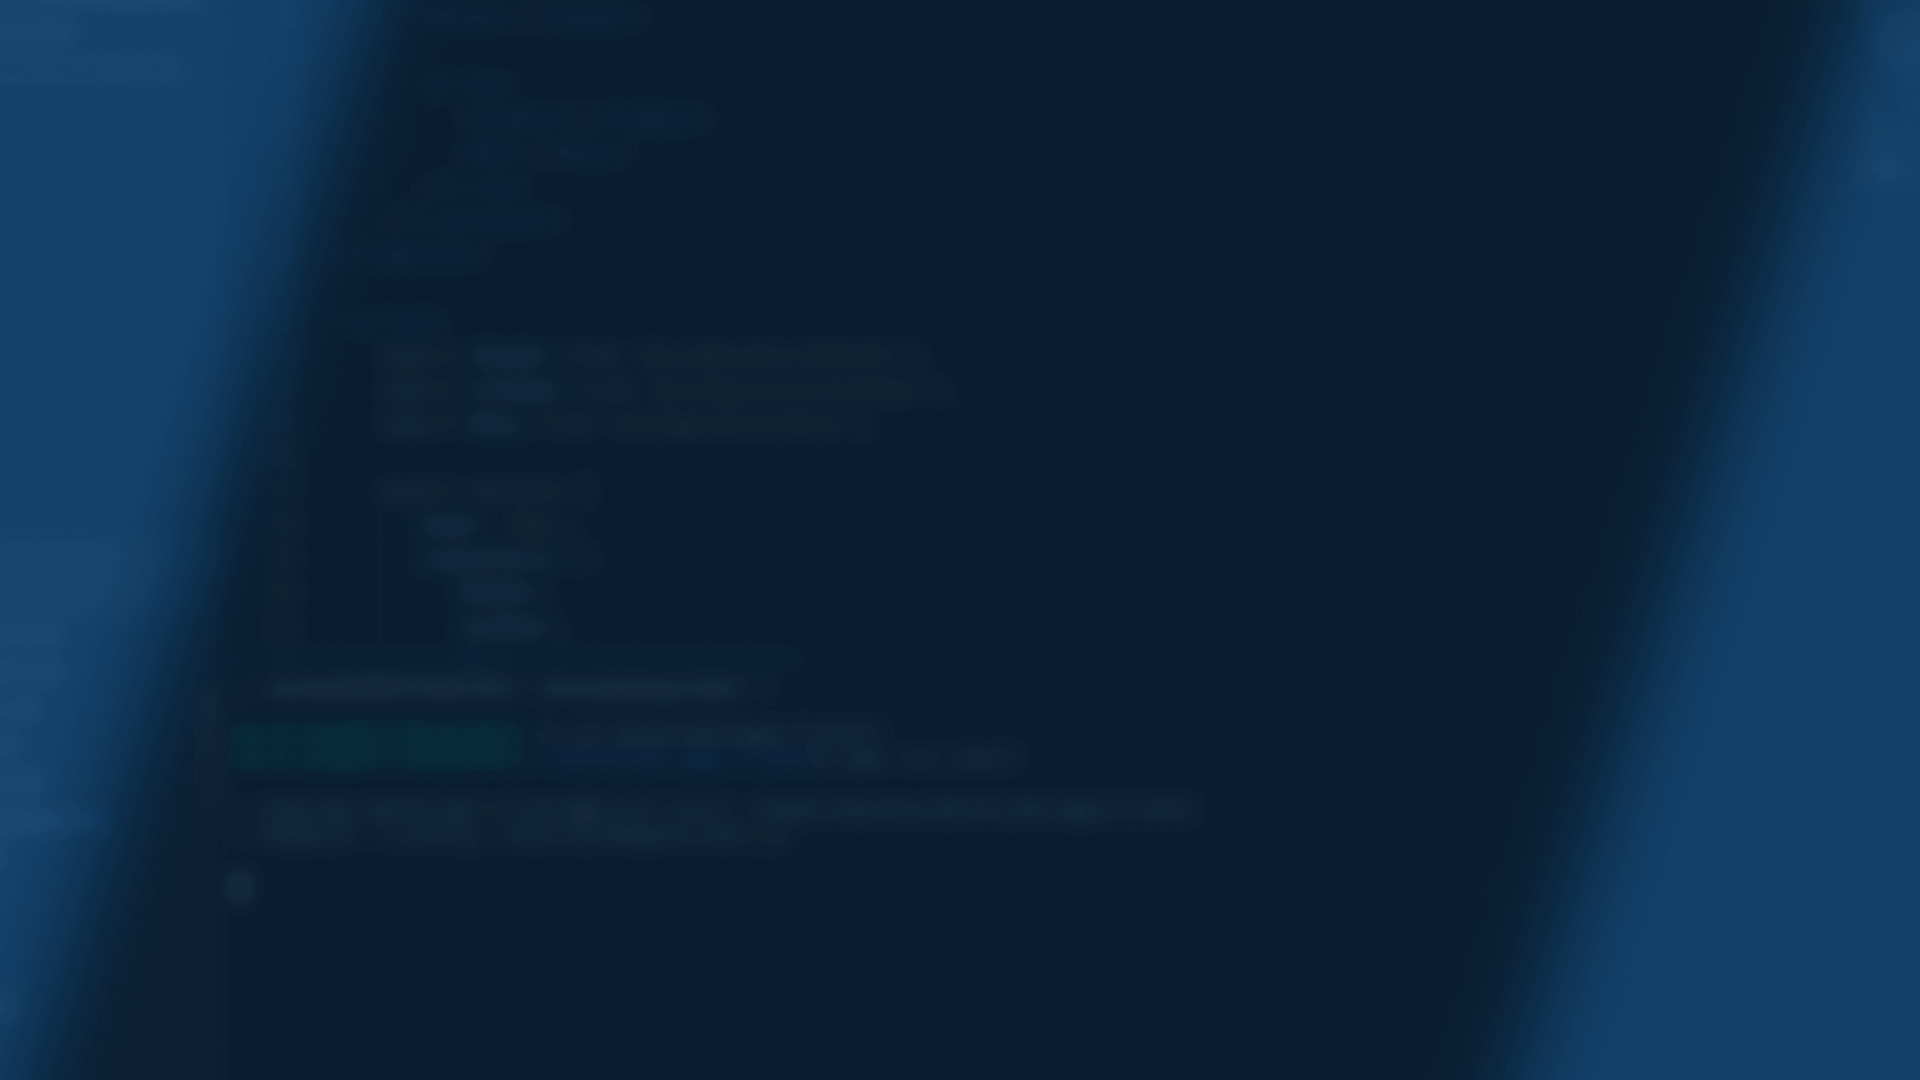
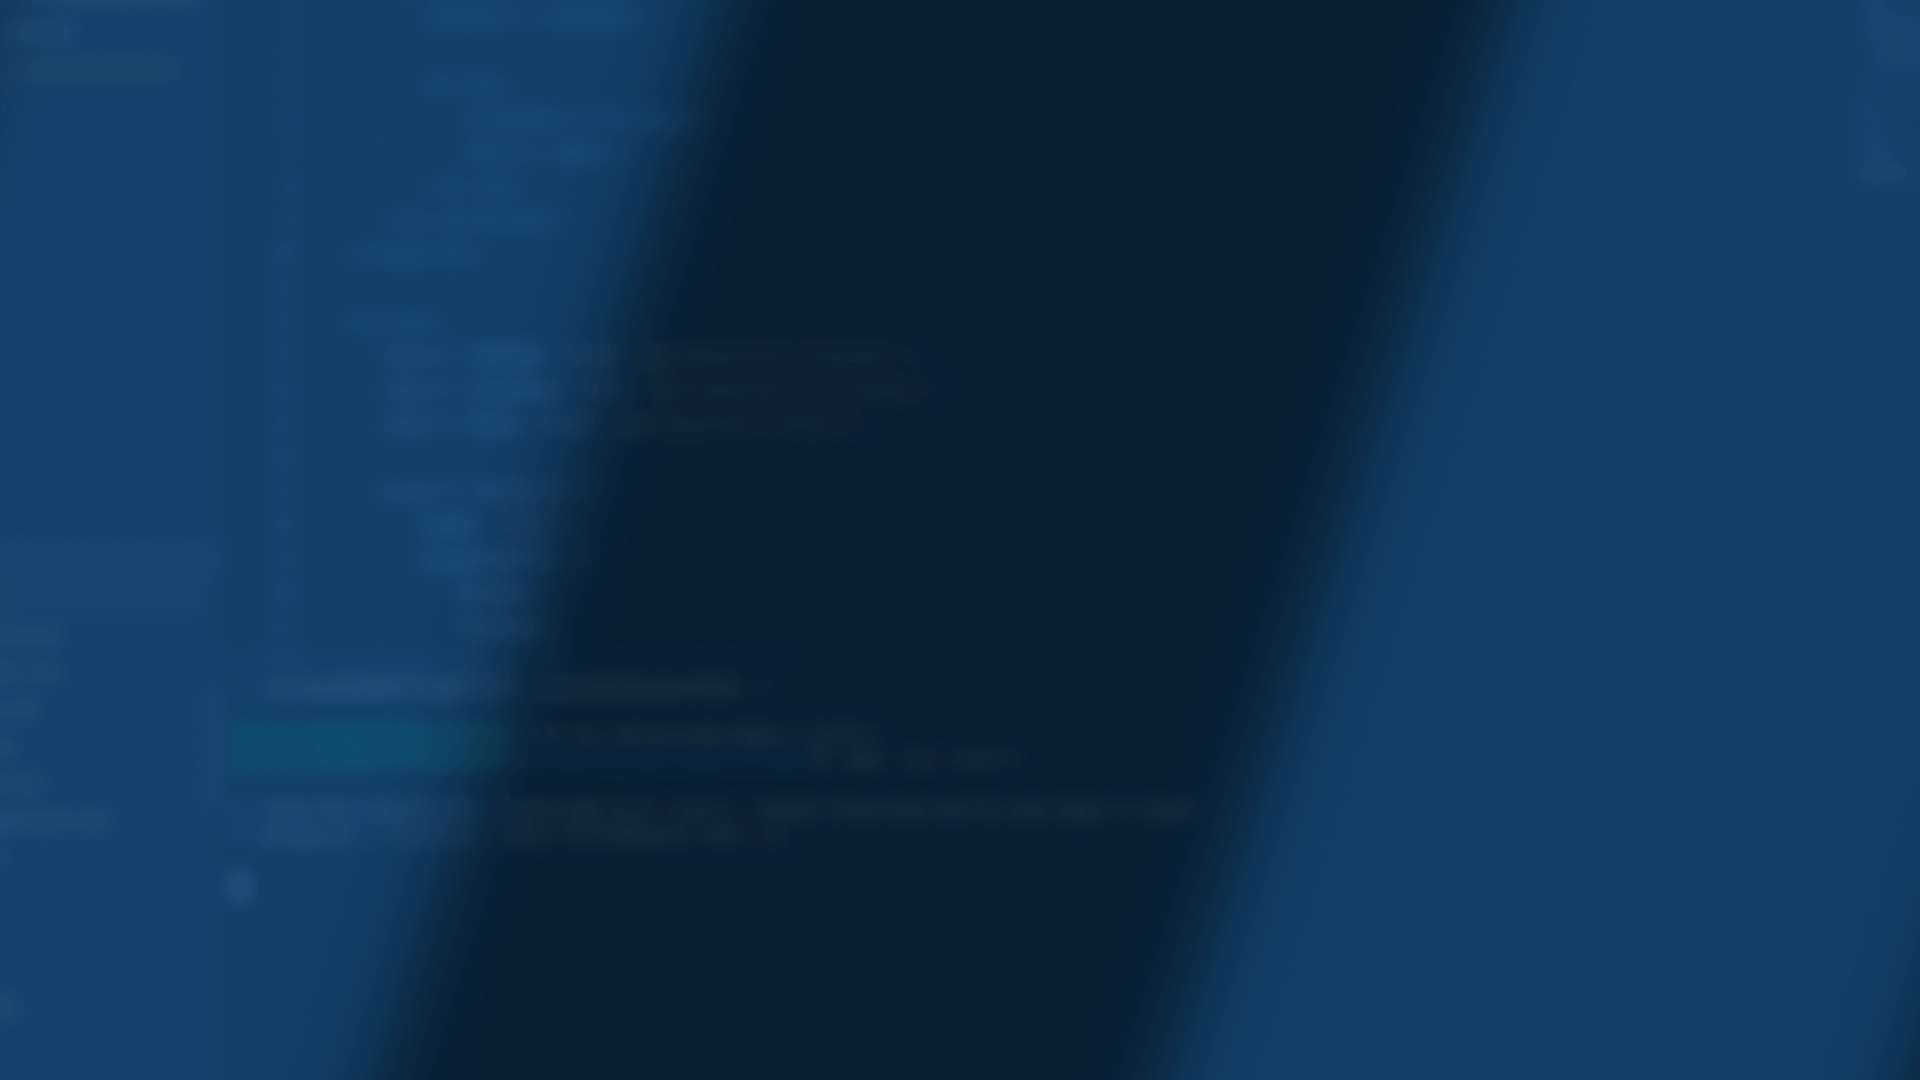
Header - Mobile-specific BG

diff --git a/assets/css/custom.scss b/assets/css/custom.scss
@@ -12,9 +12,15 @@ body {
   -moz-transition: background-image 0.6s ease-in-out 0s;
   -o-transition: background-image 0.6s ease-in-out 0s;
   transition: background-image 0.6s ease-in-out 0s;
-  background-image: url('../img/bg-2.png');
+  background-image: url('../img/bg.png');
   background-repeat: no-repeat;
   background-position: center center;
+}
+
+@media (max-width: 480px) {
+  body {
+    background-image: url('../img/bg-mob.png');
+  }
 }
 
 .logo {
